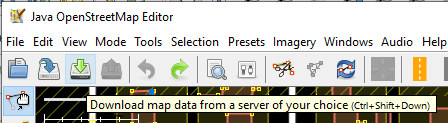
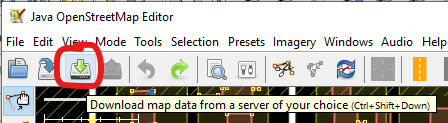
More editing documentation

Changed region(s): [[0.0938, 0.3415, 0.25, 0.7317]]

diff --git a/osm_editing.md b/osm_editing.md
@@ -36,11 +36,19 @@ download an .osm from any number of good sources, such as
 To download data for the area you wish to work on, open JOSM and select the
 Download Data tool.
 
-[image]
+![Downloading](images/dl.png)
 
 Navigate the map to the area you wish to download and draw a rectangle around
 it. JOSM will automatically download this data for you. You can download new
 data at any point by repeating this process.
+
+While working on existing conditions, it is not necessary to download the entire
+area of interest. Instead, we suggest you work in a small area and routinely
+download new data from OSM as you move through the area of interest.
+
+Multiple users can be working on the existing conditions as long as each user is
+regularly downloading the latest OSM and submitting their edits back to the main
+database.
 
 ## Editing OSM
 
@@ -50,7 +58,7 @@ OSM is based on a key=value scheme. Each key=value pair is called a tag. When
 you edit OSM, your work will be to add or edit tags on the transportation
 network to accurately reflect conditions for bicycling.
 
-[image]
+![Tags](images/tags.png)
 
 To edit a tag on an individual feature, you can simply click on the feature to
 select it. The interface will show a list of tags. If you're editing an existing
@@ -84,17 +92,22 @@ updating a speed limit that extends the length of a corridor, for example.
 
 #### Splitting Features
 
-You may come across instances where you need to split a line because the roadway conditions change. Splitting a line is accomplished by selecting the node where you want to split the line, also selecting the line (via shift+click) and selecting `Tools->Split Way`.
+You may come across instances where you need to split a line because the roadway
+conditions change. Splitting a line is accomplished by selecting the node where
+you want to split the line, also selecting the line (via shift+click) and
+selecting `Tools->Split Way`.
 
-[image]
+![Split](images/split.png)
 
 #### Drawing New Features
 
-If you need to add a new line (for example, an off-street trail connection) you can draw the line with the `Draw Nodes` tool.
+If you need to add a new line (for example, an off-street trail connection) you
+can draw the line with the `Draw Nodes` tool.
 
-[image]
+![Draw Nodes](images/draw_nodes.png)
 
-OSM and the BNA require accurate _topology_ which means you need to place points on the line where intersections occur.
+OSM and the BNA require accurate _topology_ which means you need to place points
+on the line where intersections occur.
 
 ## Syncing with the Main OSM Database
 
@@ -102,7 +115,7 @@ When you have completed edits to the _existing conditions_ you can upload your
 changes to the main OSM database by clicking the Upload tool. This will ask for
 your OSM user credentials and a description of the changes you've made.
 
-[image]
+![Upload](images/upload.png)
 
 **Please note**: It is recommended that you upload your changes in small batches
 of edits that all share a similar theme. For example, you could update speed
@@ -112,5 +125,34 @@ attributes.
 
 ## Working with the Planned Network
 
-Save copy of .osm file
-DO NOT UPLOAD TO OSM!
+Once you've completed all edits to _existing_ conditions on the OSM network,
+you're ready to work on the _planned_ network. Because these edits are not
+intended for the main OSM database you will need to work off of a local file.
+
+To begin, re-download OSM for the area you're working in. This will ensure you
+have the latest edits from any other users who have been working in the same
+area (including other Calbike staff who may have been making edits for other
+characteristics).
+
+With the latest OSM data _for the entire area of interest_ loaded into JOSM
+(possibly downloaded with bbbike or another service if the area of interest is
+too large to download through JOSM), save **two** copies of the data. The first
+will be an official copy of the latest existing conditions for use in the BNA.
+The second will be an official copy of the planned network for use in the BNA.
+The existing OSM file can be set aside until it is time run the BNA.
+
+You can save local copies of the OSM data using the Save button.
+
+![Upload](images/save.png)
+
+The planned network can be updated in JOSM using the same methods as for the
+existing network. The only difference is that you will not upload your changes
+to the main OSM server. Instead, you can save updates to the planned OSM file
+with the Save button.
+
+Because the planned network can only be edited on a local .osm file, there is
+no ability for concurrent editing (multiple users). If you desire to have
+multiple people make changes to the planned network, you'll need to coordinate
+to ensure two people aren't editing at the same time. If two people edit
+concurrently, the .osm file will only reflect the edits of the most recent save
+(i.e. one of the user's edits will be lost).
